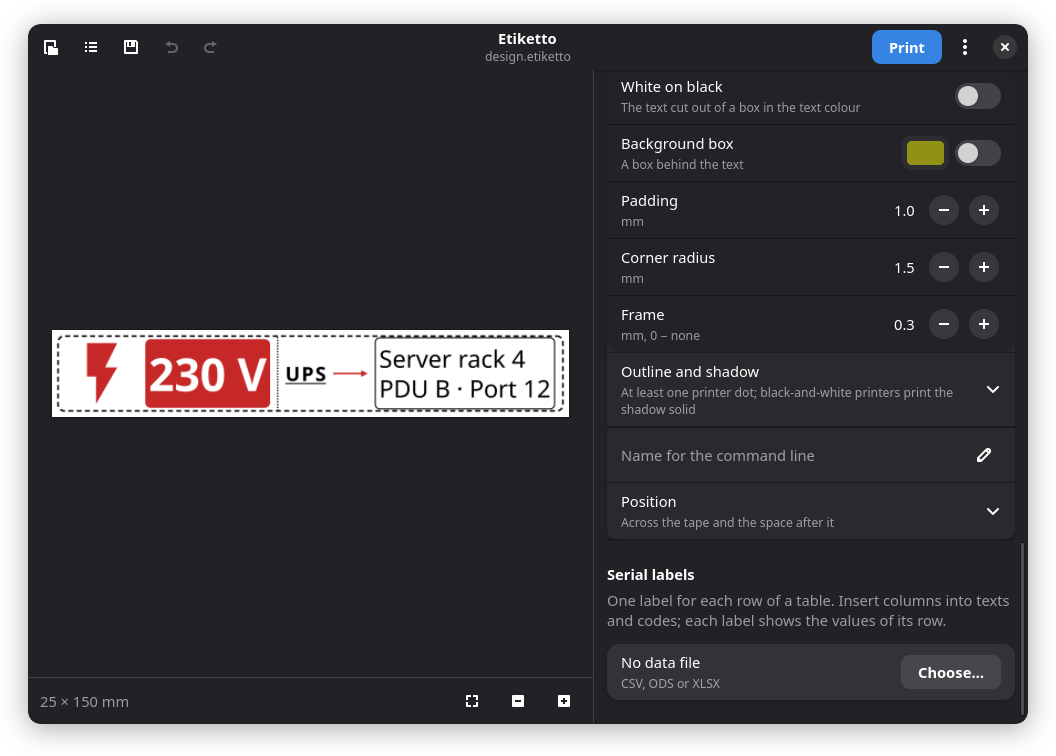
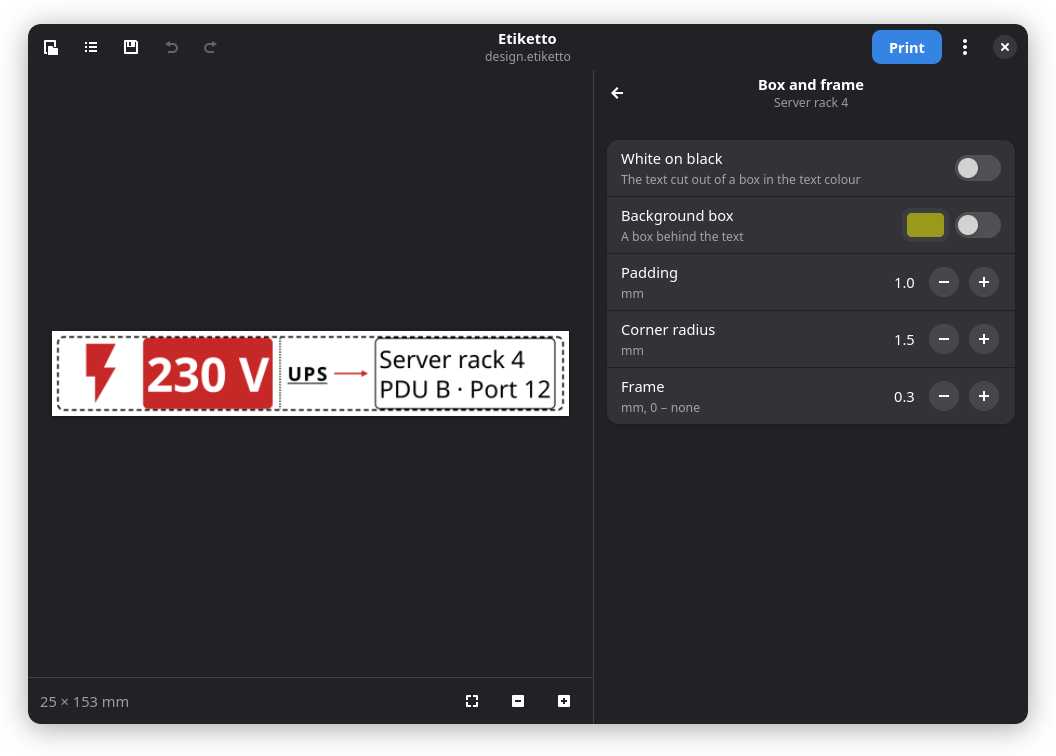
Document black and white against the background, red and black, pages
The background is dithered on its own, colours print against what lies
behind them, the Brother QL's red and black mode converts the rest like
black-and-white printers, images were dithered by earlier versions, letter
spacing leaves out joined scripts, vertical text is turned (not upright
CJK), undo in text fields and back to the saved state, the option pages;
German too. The screenshot shows a page of options with the element's
name in its header.

diff --git a/site/docs/use.md b/site/docs/use.md
@@ -54,7 +54,9 @@ Elements are placed one after another along the label. Order them with
 ![Text in a box and a frame, lines and a rounded border](media/design.png#only-light)
 ![Text in a box and a frame, lines and a rounded border](media/design-dark.png#only-dark)
 
-The rows of a text element:
+The rows of a text element; [[ui:Spacing and fitting]], [[ui:Box and frame]]
+and [[ui:Outline and shadow]] open a page of their own in the sidebar, its
+header names the element:
 
 - [[ui:Font]]: family, [[ui:Bold]], [[ui:Italic]], [[ui:Underline]],
   [[ui:Strikethrough]].
@@ -62,7 +64,10 @@ The rows of a text element:
   [[ui:Line spacing]]; [[ui:Shrink to fit]] makes the text smaller until it fits the
   label height and, with a fixed length, the length, never below
   [[ui:Smallest size]]; [[ui:Wrap width]] breaks long lines into several;
-  [[ui:Rotation]] 90° or 270° prints the text vertically.
+  [[ui:Rotation]] 90° or 270° turns the whole text, the letters lie on
+  their side (not upright columns of Chinese or Japanese).
+- Letter spacing leaves out scripts whose letters join, such as Arabic or
+  Devanagari.
 - [[ui:Box and frame]]: [[ui:White on black]] cuts the text out of a box
   in the text colour; [[ui:Background box]] puts a box of another colour
   behind it; [[ui:Padding]], [[ui:Corner radius]] and [[ui:Frame]] shape
@@ -110,13 +115,20 @@ Each element has [[ui:Position]]:
 - Images: [[ui:Method]] under [[ui:Black and white]]. [[ui:Automatic]]
   uses a threshold for drawings and logos and dithering for photos;
   [[ui:Threshold]] sets which grey still prints black.
-- Colours print black, or white if they are light. A shadow prints solid
-  black. Outlines and shadows are at least one printer dot.
+- Colours print black, or white if they are lighter than what lies behind
+  them (the background colour or image, or a text's box). An element that
+  would print in the colour of the background gets a warning.
+- The background colour or image is dithered on its own.
+- A shadow prints solid in the other colour, one dot apart from the
+  letters. Outlines and shadows are at least one printer dot.
+- Earlier versions dithered every image; now [[ui:Automatic]] keeps
+  drawings and logos sharp.
 
 ## Undo and keyboard shortcuts { #shortcuts }
 
 - [[ui:Undo]] (Ctrl+Z) and [[ui:Redo]] (Ctrl+Shift+Z); typing into a field
-  counts as one step. In a text field Ctrl+Z undoes the typing there.
+  counts as one step, also when the field has the focus. Undoing back to
+  the saved label makes it unchanged again.
 - The open element (its row expanded): Ctrl+D duplicates it, Delete
   removes it, Alt+Up and Alt+Down move it.
 - Ctrl+Shift+T, G, Y, B and L add text, an image, a symbol, a code or a

diff --git a/CONTRIBUTING.md b/CONTRIBUTING.md
@@ -180,11 +180,13 @@ extension of the interface first; please open an issue before you start.
      `prepare()` that depends on the model; `capabilities.default_tape_mm`
      sets the tape of a new label.
    - Override `preview(image, mode)` if a mode changes the result (the
-     VC-500W shows black and white as grey), and `renders_mono(mode)` if a
-     mono printer has a mode in colour (the Brother QL's red and black):
-     labels for mono printers are rendered black and white part by part
-     (`render(mono=True)`: text without anti-aliasing, images by their
-     mode), so the backend's own conversion changes nothing.
+     VC-500W shows black and white as grey), and `renders_red(mode)` if a
+     mono printer prints red too in a mode (the Brother QL's red and
+     black): labels for mono printers are rendered black and white part by
+     part (`render(mono=True)`: text without anti-aliasing, colours black
+     or white against the background, images by their method; with
+     `red=True` red parts stay red), so the backend's own conversion
+     changes nothing.
    - `settings`: printer settings of the backend's own (resolution, label
      sensor, darkness, ...) as `Choice` (protocol values, the first is the
      default) or `Level` (steps; None keeps the printer's own setting). The

diff --git a/site/docs/printer.md b/site/docs/printer.md
@@ -142,6 +142,9 @@ documented it. Reports of what works and what does not are very welcome.
   for black labels: if the choice does not fit the loaded roll, the
   printer refuses the job, Etiketto prints it the other way and says so.
   From then on the choice follows the roll.
+- Red and black: red parts stay red; images, the background and
+  everything else are converted as for black-and-white printers, see
+  [Black-and-white printers](use.md#black-and-white).
 - [[ui:Quality]]: [[ui:High resolution (600 dpi)]] doubles the resolution
   along the roll; printing takes longer. Offered on the QL-570, QL-580N,
   QL-700, QL-710W, QL-720NW, the QL-800 series and the QL-1100 series.
